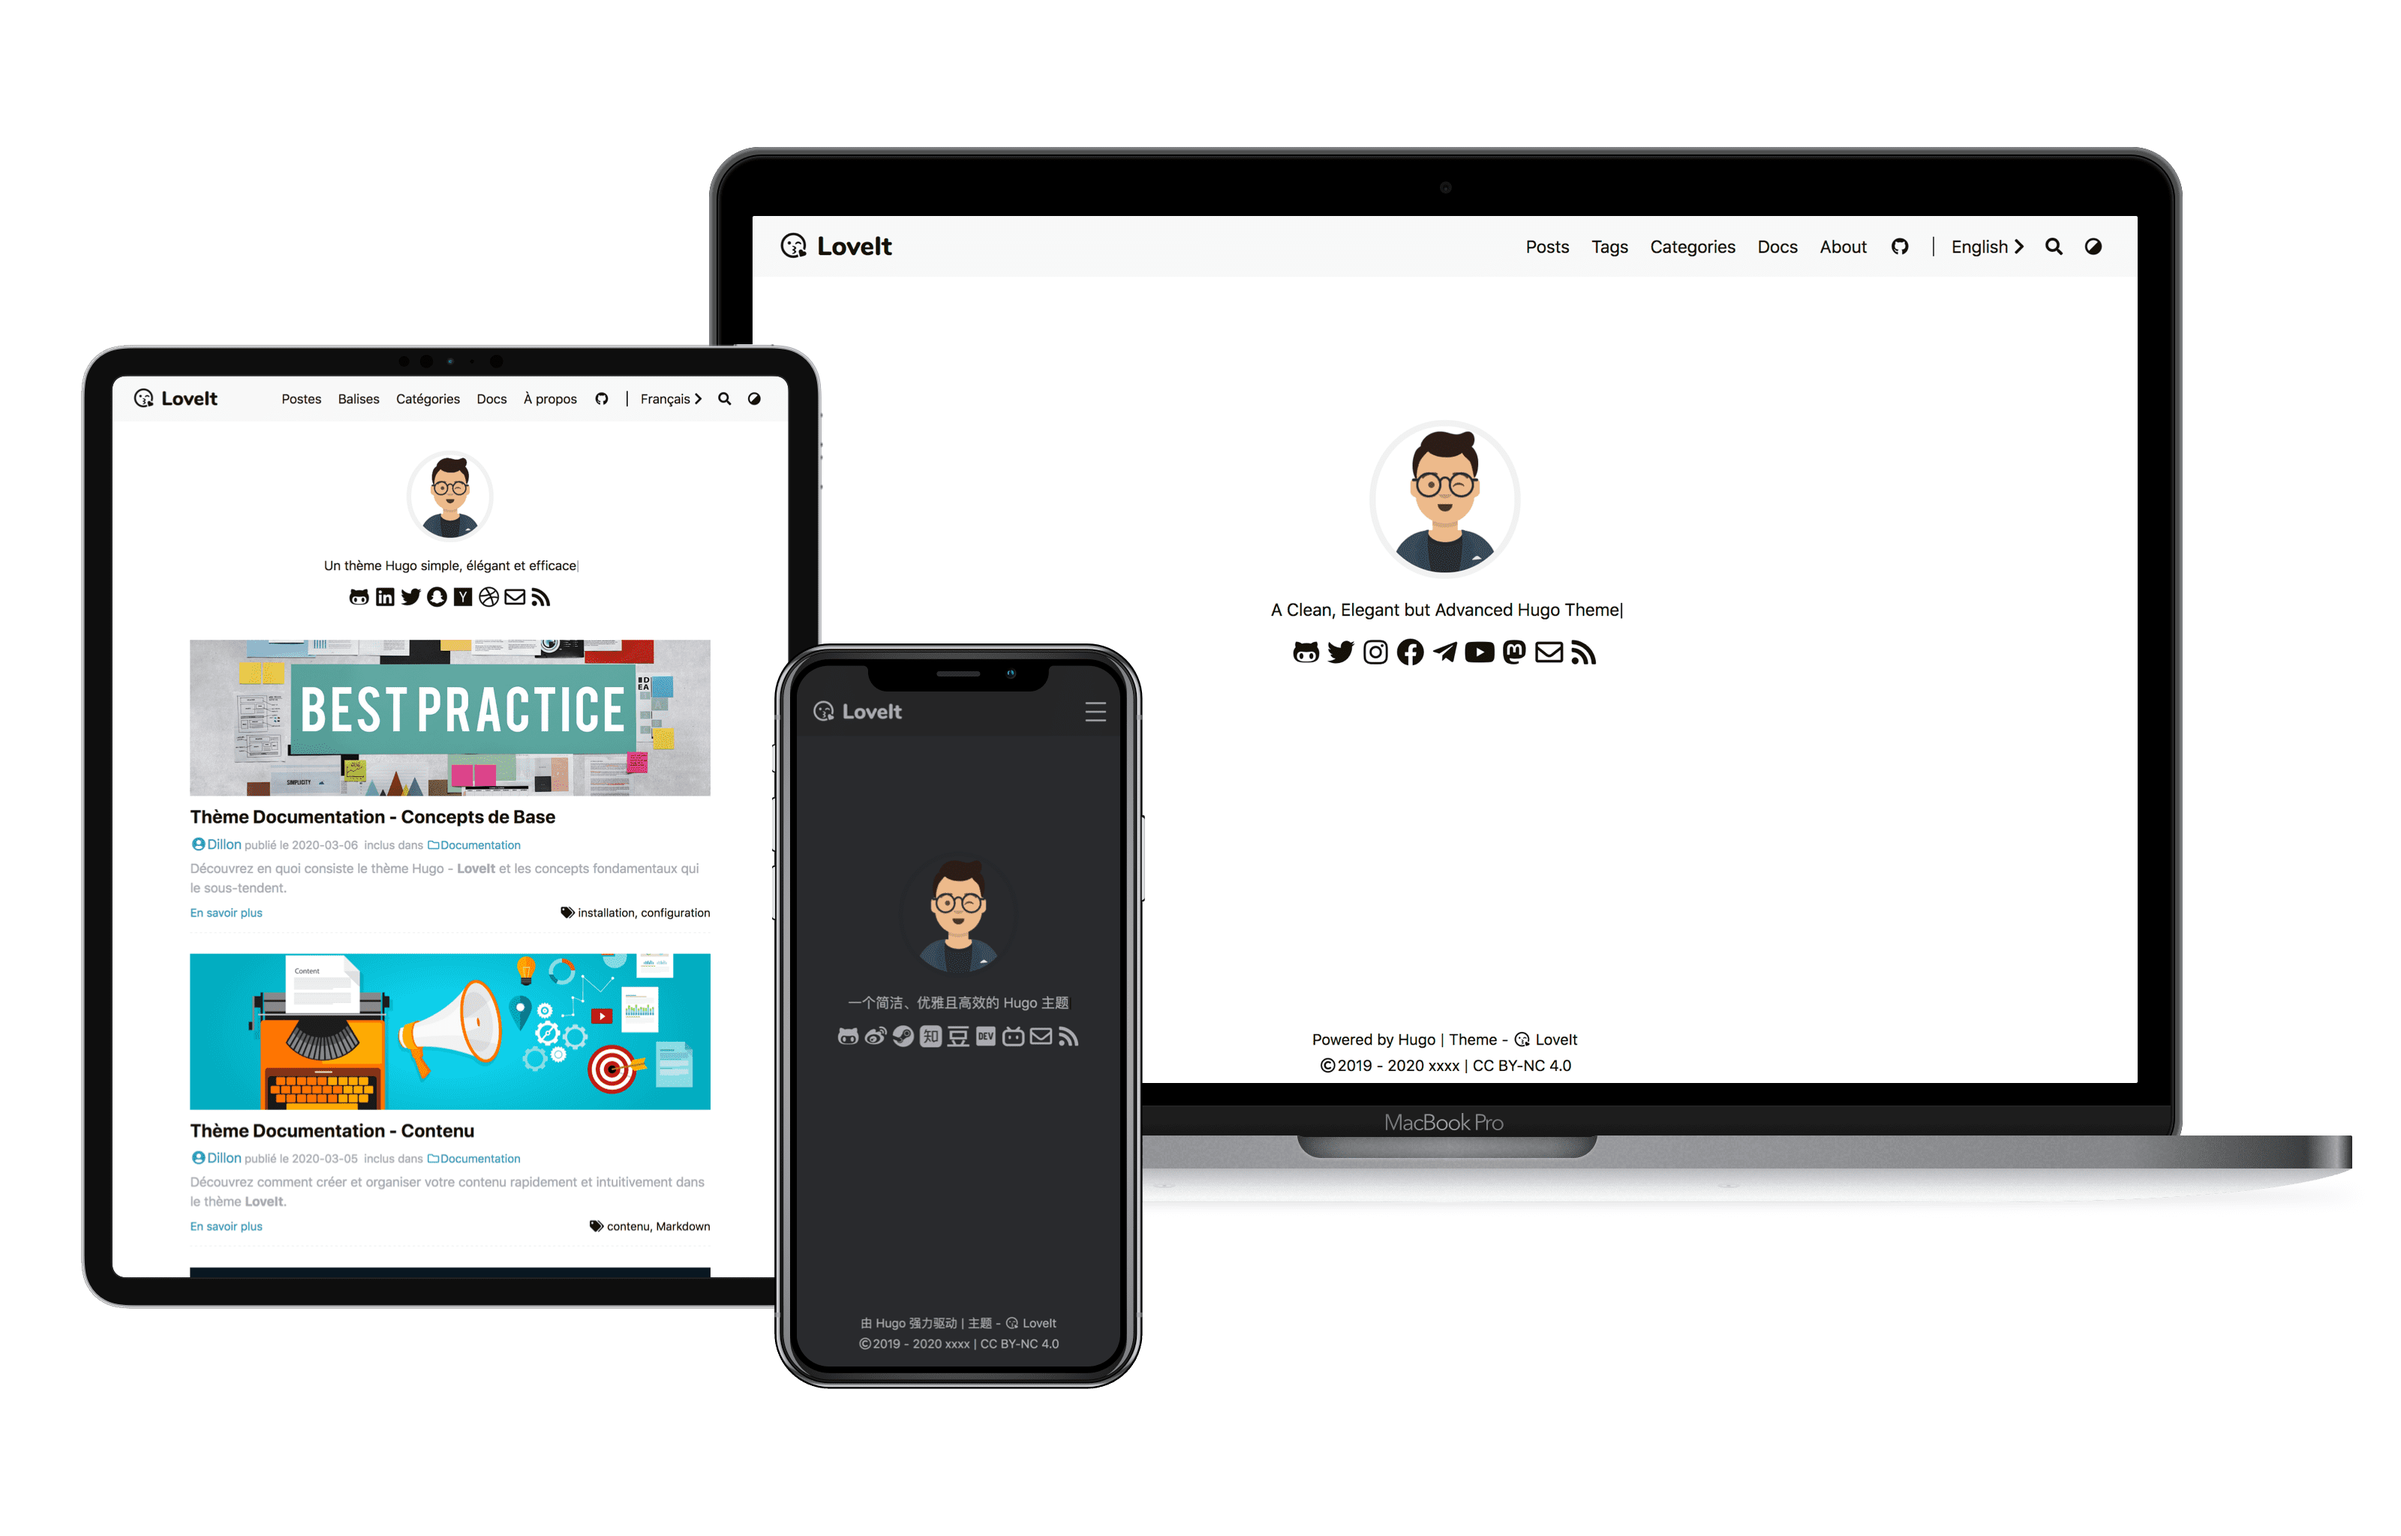
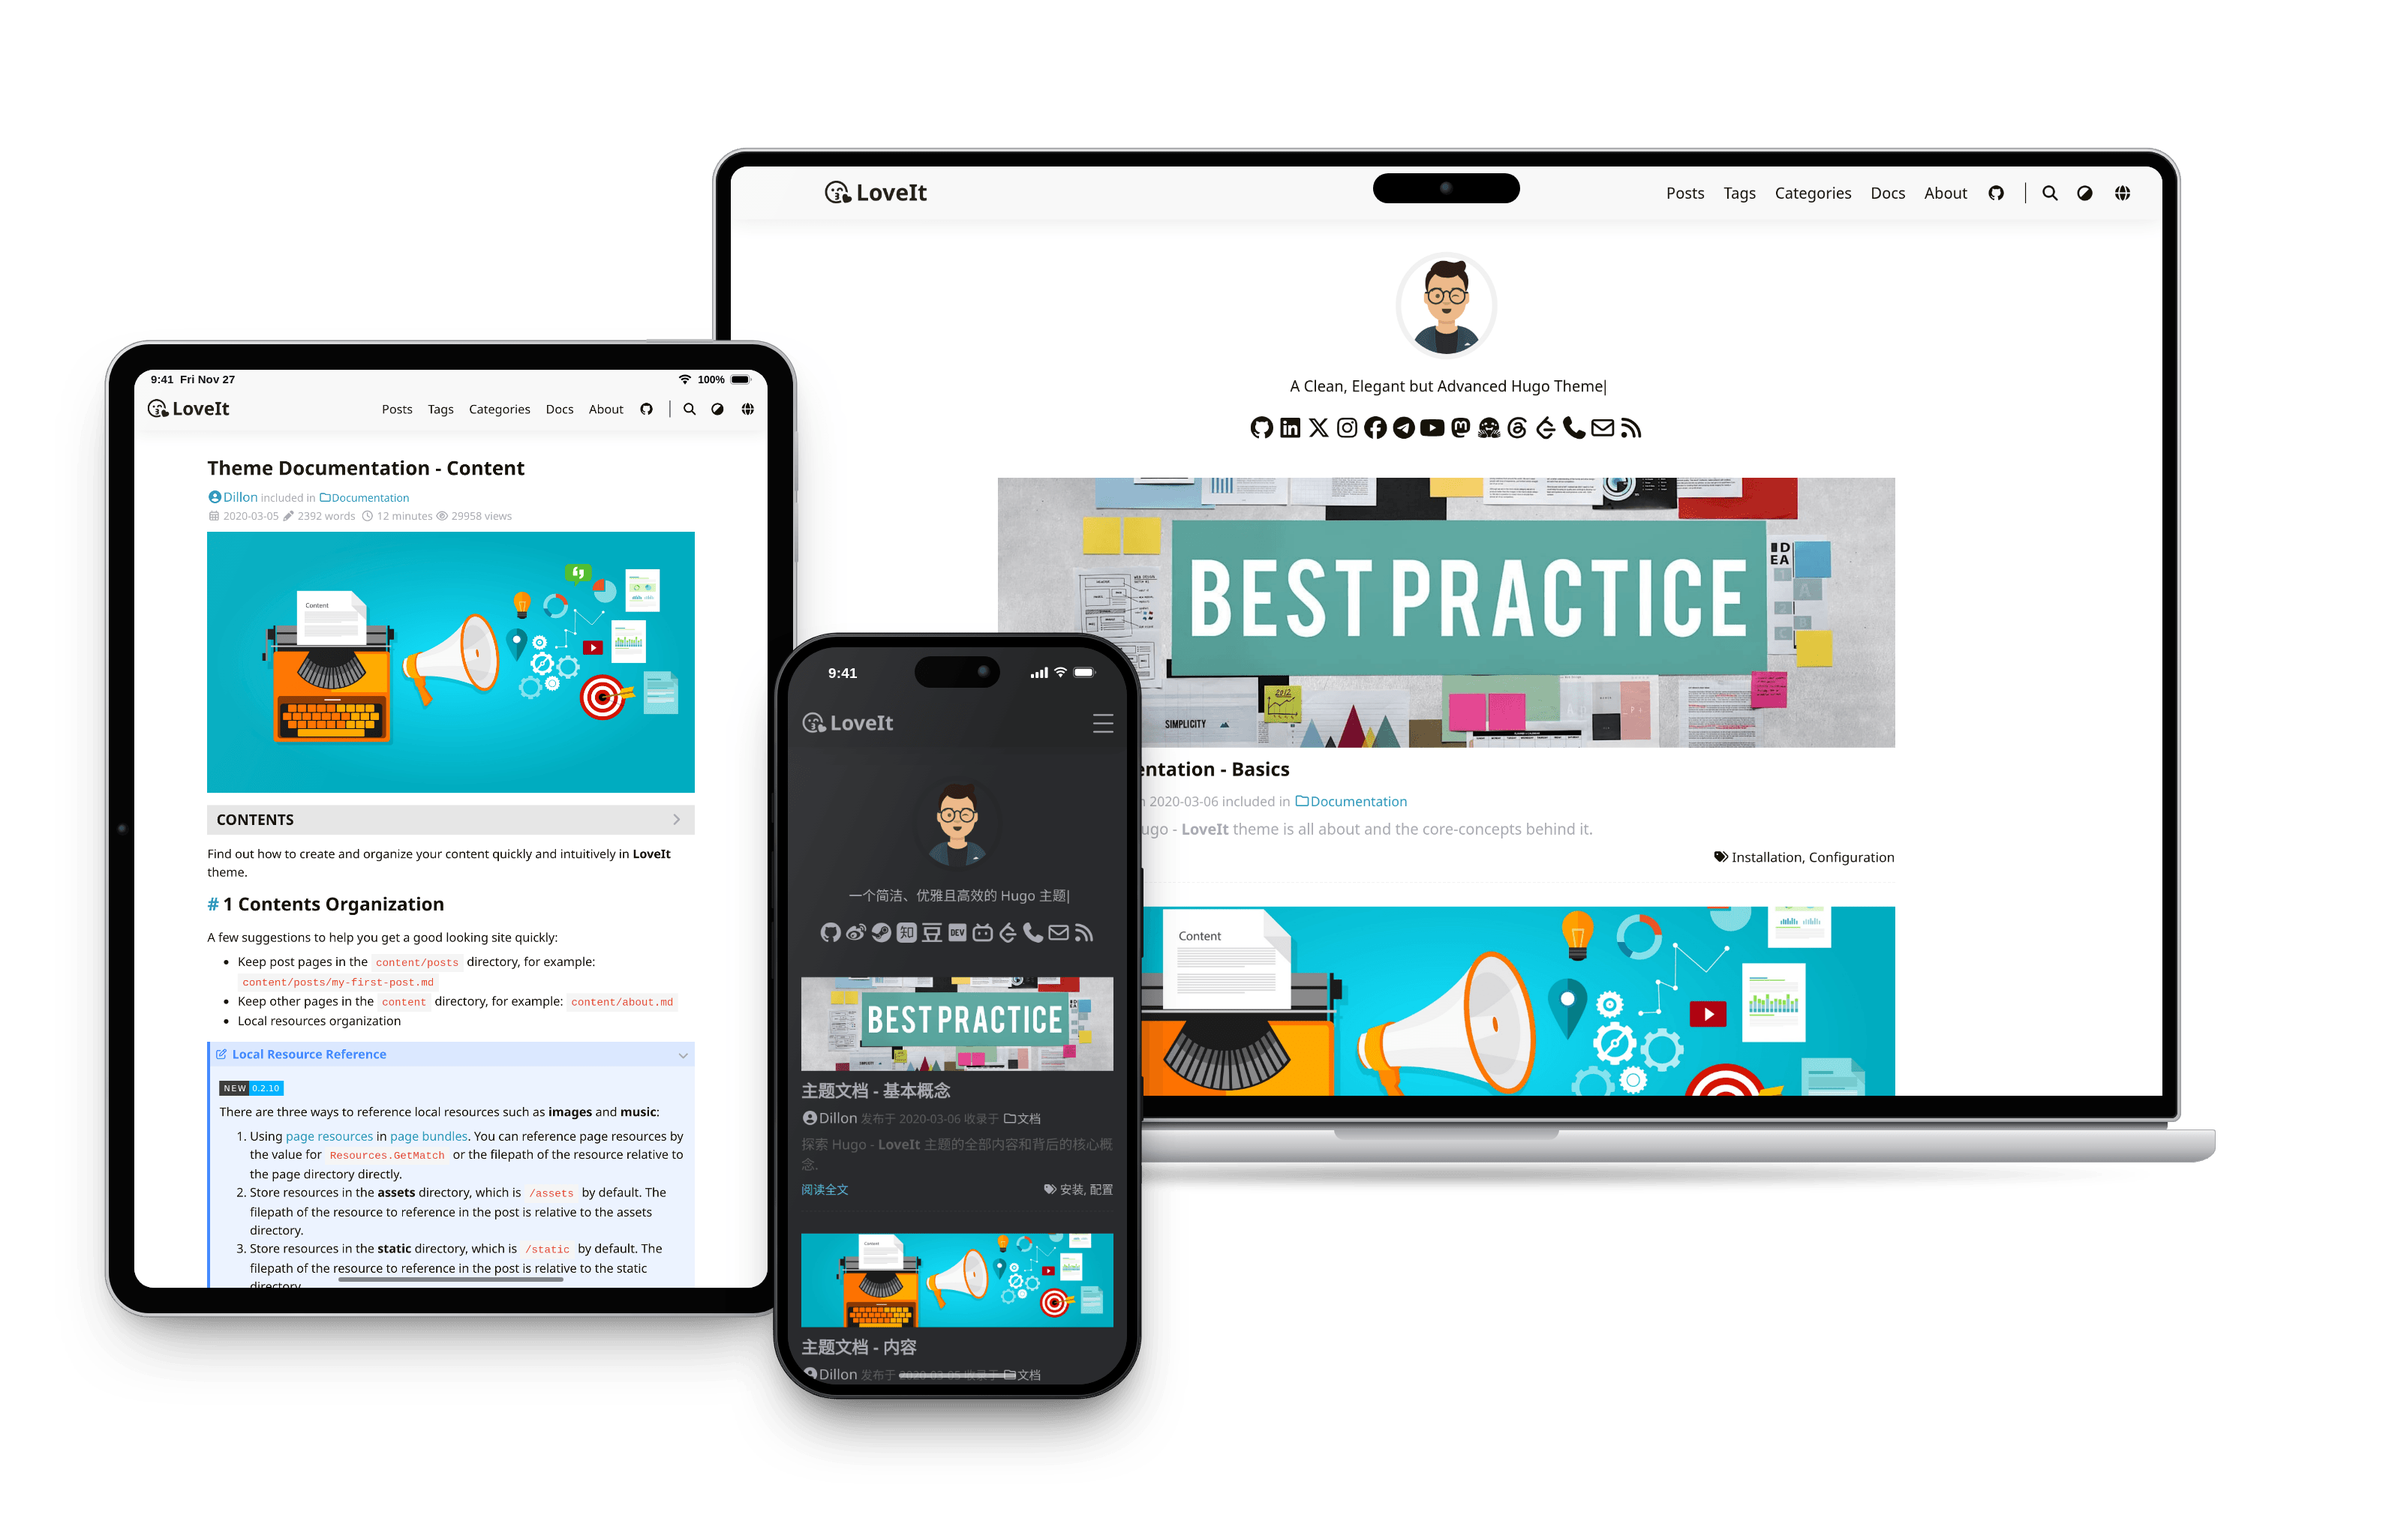
docs: refresh the device preview and drop the Sponsor and Stargazers sections
Rebuild Apple-Devices-Preview.png with current device frames (MacBook Pro
with PROLED XDR Display, iPad Pro, iPhone 18 Pro) and fresh screenshots of
the example site, keeping the original three-device layout.

Remove the Sponsor and Stargazers over time sections from both READMEs;
the starchart badge now fails with a GitHub API authentication error.
Delete the Alipay and Wechat QR images that only the Sponsor section used.

Changed region(s): [[0.0312, 0.0938, 1.0, 0.9375]]

diff --git a/README.zh-cn.md b/README.zh-cn.md
@@ -231,17 +231,3 @@ LoveIt 主题中用到了以下项目，感谢它们的作者：
 ## 作者
 
 [Dillon](https://dillonzq.com)
-
-## 赞助支持
-
-如果你喜爱这个主题, 请考虑给我买杯咖啡 ☕.
-
-* [PayPal](https://paypal.me/dillonzq)
-* [支付宝](https://github.com/dillonzq/LoveIt/raw/master/images/Alipay.jpg)
-* [微信支付](https://github.com/dillonzq/LoveIt/raw/master/images/Wechat.jpg)
-
-谢谢! ❤
-
-## Star 数目趋势
-
-[![Star 数目趋势](https://starchart.cc/dillonzq/LoveIt.svg)](https://starchart.cc/dillonzq/LoveIt)

diff --git a/README.md b/README.md
@@ -236,17 +236,3 @@ Thanks to the authors of following resources included in the theme:
 ## Author
 
 [Dillon](https://dillonzq.com)
-
-## Sponsor
-
-If you enjoy the theme, please consider buying me a coffee ☕.
-
-* [PayPal](https://paypal.me/dillonzq)
-* [Alipay](https://github.com/dillonzq/LoveIt/raw/master/images/Alipay.jpg)
-* [Wechat](https://github.com/dillonzq/LoveIt/raw/master/images/Wechat.jpg)
-
-Thanks! ❤
-
-## Stargazers over time
-
-[![Stargazers over time](https://starchart.cc/dillonzq/LoveIt.svg)](https://starchart.cc/dillonzq/LoveIt)
